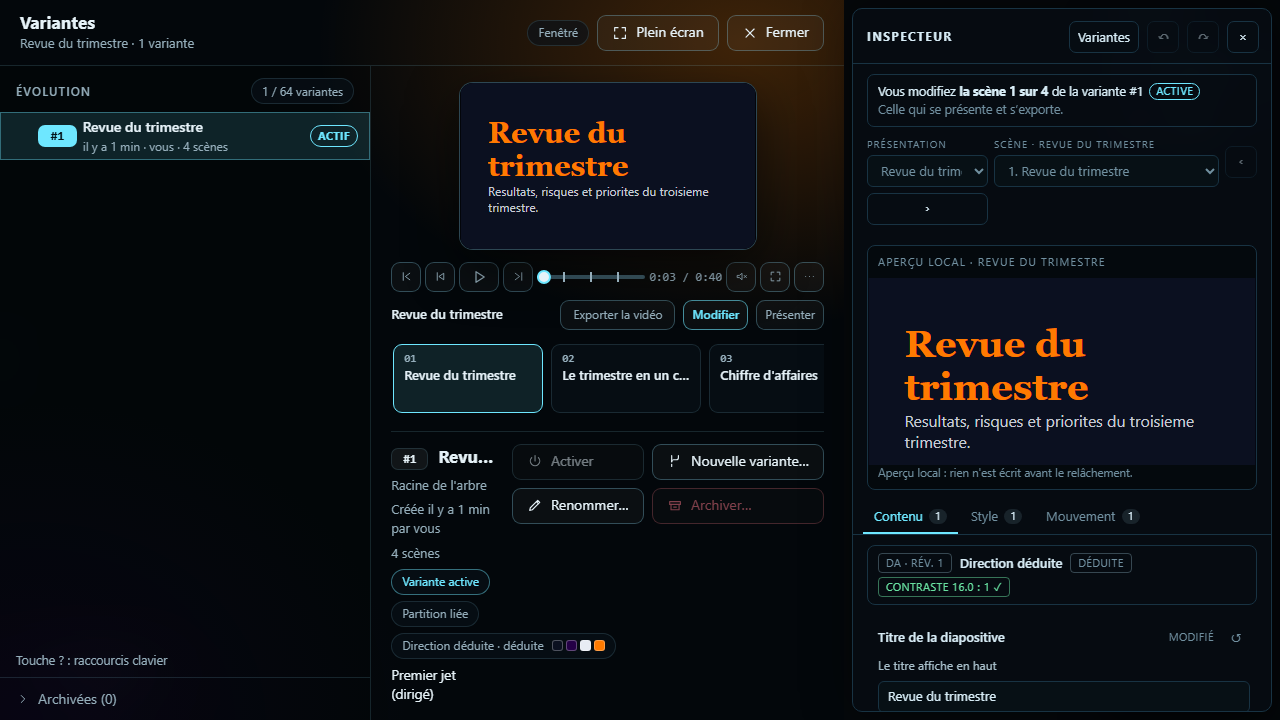
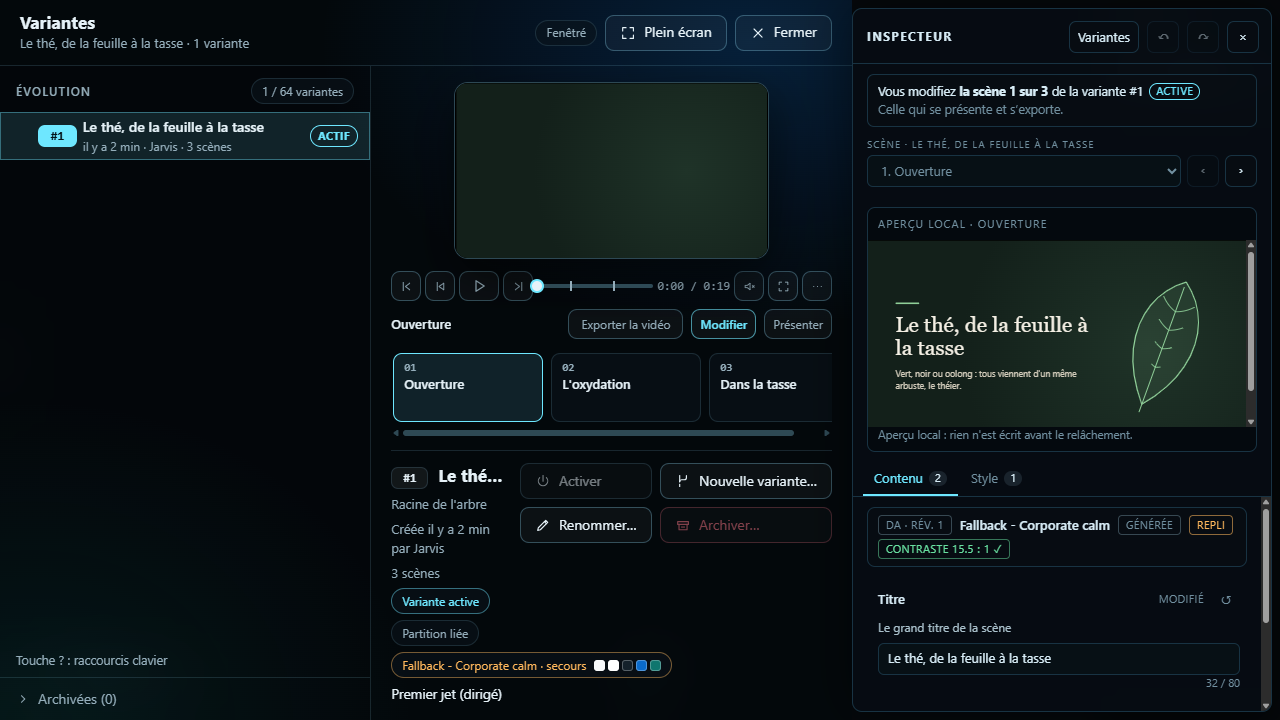
S9: reprise QA - image représentative tenue à l'arrêt, essai réel, captures et LOG
- Variantes : une scène choisie à l'arrêt montre son image représentative (le séquenceur tient le Player sur restFrame de l'hôte,
  l'horloge reste au début de la scène) ; l'option rest de l'hôte ne joue plus pendant une lecture (phases playing/waiting/loading).
- Variantes : « Core est injoignable » sans le texte de transport de Core.
- Essai réel en bac à sable : tour du cerveau (3 scènes, 0,94 $) dont chaque scène est modifiable, B1, Core arrêté, export d'une
  branche, image et PDF depuis Sessions & Boards ; captures refaites et ajoutées ; LOG de la reprise.

diff --git a/jarvis/runtime/control_center_presentation_studio_explorer.js b/jarvis/runtime/control_center_presentation_studio_explorer.js
@@ -57,6 +57,8 @@
     describeRefusal,planModel,sameSet,readPrefs,writePrefs,MAX_RATIONALE_BYTES,AUTO_DWELL_DEFAULT,AUTO_TICK_MS,AUTO_SKIP_MS,autoStep,leftKeyAction,nextDwell,dwellLabel}=Core;
 
   const GRAPH_POLL_MS=10000;
+  /* Sequencer phases in which a mounted scene is about to play from its start: no representative rest then (Slice 09). */
+  const RESTLESS=new Set(['playing','waiting','loading']);
   const EDIT_TITLE='Modifier la scène à l’écran (texte, couleurs, mouvement) : le panneau s’ouvre à droite, l’aperçu suit';
   const COMMAND_POLL_WAIT_S=25;
   const COMMAND_POLL_TIMEOUT_MS=30000;
@@ -651,7 +653,7 @@
            lecture continue écoute (Player devenu vivant, position du Player, échec d'une scène). */
         /* `autoplay: false`, `embed: 'variants'` (Slice 06): the Player opens paused on frame 0 and only the transport below plays it (§ 4.1);
            the stage page shows no bar of its own (§ 2). */
-        previewHost=api.createPrefabHost({mode:'preview',document:doc,window:win,swapPrefix:'presentation-studio.',autoplay:false,embed:'variants',rest:()=>!S.run&&!(seq&&seq.active()),
+        previewHost=api.createPrefabHost({mode:'preview',document:doc,window:win,swapPrefix:'presentation-studio.',autoplay:false,embed:'variants',rest:()=>!S.run&&!(seq&&RESTLESS.has(seq.view().phase)),
           fetchBundle:api.bundleFetcher((path,options)=>fetchImpl(path,Object.assign({cache:'no-store'},options))),
           onPreviewEvent:()=>{/* intentional: the preview frame writes nothing anywhere; its events are dropped */},
           onLive:(id)=>{if(runAdapter.owns(id))runAdapter.onLive(id);else if(seq)seq.onLive(id)},
@@ -679,6 +681,7 @@
         selectedIndex:()=>Math.max(0,S.preview.scenes.findIndex(s=>s.id===S.preview.sceneId)),
         fetchClock:()=>call('GET',variantPath(S.preview.variantId,'/composition-clock'),undefined,{timeoutMs:READ_TIMEOUT_MS}),
         show:(index)=>{const scene=S.preview.scenes[index];if(scene)showScene(scene.id)},
+        rest:()=>!S.run,
         variantChanged:()=>{say('info',"La variante a changé : l'aperçu est relu. Relancez la lecture.");schedulePreview()},
         changed:()=>renderPlayback()});
       return seq;

diff --git a/jarvis/runtime/control_center_prefab_host.js b/jarvis/runtime/control_center_prefab_host.js
@@ -537,6 +537,7 @@
         case 'ready':
           cancel(rec.readyTimer);
           if(status.composition)fitComposition(rec,status.composition);
+          if(status.composition)rec.composition=status.composition;
           rec.incarnation=++incarnations;
           rec.clock=null;rec.ordered=false;
           rec.ready=true;
@@ -1075,6 +1076,13 @@
       return rec&&rec.remotion&&rec.incarnation?rec.incarnation:null;
     }
 
+    /* The representative still of the live Player of `objectId` (its composition and the `rest_ms` it was mounted with), or `null` before its
+       first `ready`: the frame a paused scene shows when it is held at its start (Variants' sequencer, presentation-edition-v1 Slice 09). */
+    function restFrame(objectId){
+      const rec=frames.get(objectId);
+      return rec&&rec.remotion&&rec.composition?representativeFrame(rec.composition,rec.restMs):null;
+    }
+
     function clock(objectId){
       const rec=frames.get(objectId);
       return rec&&rec.remotion&&rec.clock?Object.assign({},rec.clock):null;
@@ -1112,7 +1120,7 @@
       for(const objectId of Array.from(frames.keys()))unmount(objectId);
     }
 
-    return Object.freeze({mount,preload,update,unmount,pause,resume,touch,reload,stats,destroy,control,cue,clock,frame,sound,
+    return Object.freeze({mount,preload,update,unmount,pause,resume,touch,reload,stats,destroy,control,cue,clock,restFrame,frame,sound,
       soundWanted:()=>soundMuted===null?null:!soundMuted,
       audio:(objectId)=>{const rec=frames.get(objectId);return rec&&rec.audio?Object.assign({},rec.audio):null},
       has:(objectId)=>frames.has(objectId),

diff --git a/jarvis/runtime/control_center_presentation_studio_explorer_core.js b/jarvis/runtime/control_center_presentation_studio_explorer_core.js
@@ -315,7 +315,8 @@
     if(code==='presentation_studio_limit_reached')return {kind:'refused',text:limitText(ctx&&ctx.op),code};
     if(REFUSALS[code])return Object.assign({code},REFUSALS[code]);
     if(code==='timeout')return {kind:'failed',code,text:`Core ne répond pas depuis ${Math.round((e.after||REQUEST_TIMEOUT_MS)/1000)} s : l'action a peut-être été prise en compte. Relisez la liste avant de recommencer.`};
-    if(code==='network'||e.status===503||e.status===504||e.status===502)return {kind:'failed',code:code||'unreachable',text:`Core est injoignable (${cleanLine(e.message||'réseau',100)}). Rien n'est affirmé : réessayez dans un instant.`};
+    /* The user's words only (Slice 09 QA): Core's transport text (« Core is unreachable: ClientConnectorError… ») stays in the journal. */
+    if(code==='network'||e.status===503||e.status===504||e.status===502)return {kind:'failed',code:code||'unreachable',text:'Core est injoignable. Rien n’est affirmé : réessayez dans un instant.'};
     if(e.status===403||code==='forbidden_origin')return {kind:'failed',code:code||'forbidden',text:"Le Control Center a refusé cette requête (origine non autorisée)."};
     const detail=cleanLine(e.message||'',200);
     return {kind:e.status>=500?'failed':'refused',code:code||`http_${e.status||'?'}`,

diff --git a/jarvis/runtime/control_center_presentation_studio_sequencer.js b/jarvis/runtime/control_center_presentation_studio_sequencer.js
@@ -236,9 +236,18 @@
       return ok;
     }
 
+    /* Held at the START of a scene (a scene chosen while nothing plays), the Player shows the scene's representative still, not its first frame,
+       which is blank for a scene that fades in (presentation-edition-v1 Slice 09, PM decision). The clock stays at the start: « Lire » plays
+       the scene from its beginning. Never during a run (`d.rest()` false) and never for a position inside the scene. */
     function hold(native){
       const h=host();
-      if(h)h.control(objectId,'pause',native);
+      if(!h)return;
+      let shown=native;
+      if(native===0&&typeof d.rest==='function'&&typeof h.restFrame==='function'){
+        try{if(d.rest()===true){const f=h.restFrame(objectId);if(Number.isInteger(f))shown=f}}
+        catch(error){log('sequencer_rest_failed',{error:describe(error)},'warn')}
+      }
+      h.control(objectId,'pause',shown);
     }
 
     /* The scene after `index`, loaded beside the live one, paused on frame 0. Only once `index` itself is the live Player. */

diff --git a/tests/unit/test_continuous_sequencing_js.py b/tests/unit/test_continuous_sequencing_js.py
@@ -203,7 +203,7 @@ function seqBench(opts){
     log:(k,d,l)=>logs.push([k,l||'info']),scenes:()=>SCENES,revision:()=>o.revision===undefined?3:o.revision,selectedIndex:()=>o.selected||0,
     fetchClock:async()=>{fetches.push(1);const a=answers[Math.min(fetches.length-1,answers.length-1)];if(a instanceof Error)throw a;return a},
     show:(i)=>{shows.push(i);const want=key(SCENES[i]);if(want===H.live)return;H.pending=want},
-    variantChanged:()=>{changedVariant++},changed:(v)=>views.push(v.phase)});
+    variantChanged:()=>{changedVariant++},changed:(v)=>views.push(v.phase),rest:o.rest});
   H.live=key(SCENES[o.selected||0]);
   const advance=(ms)=>{t+=ms;for(const x of timers.slice()){if(x.fn&&x.at<=t){const fn=x.fn;x.fn=null;fn()}}};
   /* The host swaps the frames: the pending scene is live, its Player sits paused on frame 0. */
@@ -376,6 +376,27 @@ async def test_choosing_a_scene_goes_to_its_start_and_keeps_the_play_state(tmp_p
     """)
     assert result["playing"] == ["waiting", 990] and result["paused"] == ["paused", 0]
     assert result["orders"] == [["s1@1", "play", 0], ["s3@1", "play", 0], ["s3@1", "pause", None], ["s1@1", "pause", 0]]
+
+
+async def test_a_scene_held_at_its_start_shows_its_representative_still_but_plays_from_its_start(tmp_path):
+    """presentation-edition-v1 Slice 09 (PM decision): a scene chosen while nothing plays shows its representative still (the host's
+    `restFrame`, not its blank first frame); the clock stays at the scene's start and « Lire » plays it from frame 0. Never during a run."""
+
+    result = run_seq(tmp_path, r"""
+      const b=seqBench({rest:()=>true});
+      b.H.restFrame=()=>45;
+      await b.seq.play();b.report(5,true);b.seq.pause();
+      b.seq.seekScene(2);b.swap();
+      const held={phase:b.seq.view().phase,frame:b.seq.view().frame,last:b.orders.slice(-1)[0]};
+      await b.seq.play();
+      const played=b.orders.slice(-1)[0];
+      const r=seqBench({rest:()=>false});r.H.restFrame=()=>45;
+      await r.seq.play();r.report(5,true);r.seq.pause();r.seq.seekScene(2);r.swap();
+      return {held,played,run:r.orders.slice(-1)[0]};
+    """)
+    assert result["held"] == {"phase": "paused", "frame": 990, "last": ["s3@1", "pause", 45]}, "the still is shown, the clock stays at the start"
+    assert result["played"] == ["s3@1", "play", 0], "« Lire » plays the scene from its beginning"
+    assert result["run"] == ["s3@1", "pause", 0], "no rest when the page says so (a run)"
 
 
 async def test_the_real_host_and_the_sequencer_hand_over_without_a_hybrid_frame(tmp_path):

diff --git a/tasks/jarvis-presentation-edition-v1/LOG.md b/tasks/jarvis-presentation-edition-v1/LOG.md
@@ -216,3 +216,17 @@ Implementation agents append durable execution notes here. This handoff intentio
 - Runtime réel (même bac à sable, code de la Slice) : « Modifier » → éditeur ancré, titre de la scène 3 changé puis « Annuler » depuis la scène 1 → les deux reviennent sur la scène 3 et la valeur d'avant ; nouveau deck assemblé (« Premier jet (dirigé) », « Direction déduite ») ; « Exporter la vidéo » réel (1 200 images, 427 Kio, 162 s), PNG et PDF d'une scène rendus, puis « Enregistrer une copie dans Documents » cliqué sur les trois : `JARVIS_EXPORT_ROOT\Revue du trimestre - vidéo.mp4`, `- image.png`, `- PDF.pdf`. Aucun tour du cerveau (0 $). Arrêt par PID exacts (Core 22728, Control Center 26272 et leurs descendants nés après le démarrage) ; bases copiées sous `C:\Users\Clarice\AppData\Local\Temp\claude\C--Projects-jarvis-jarvis\448345f0-a514-4023-9dde-33aed523cf61\scratchpad\s09\db-copies\` puis `%TEMP%\s09run-a` et `%TEMP%\s09src` supprimés. Le JARVIS vivant n'a été ni lancé ni touché.
 - Captures (`slices/09-presentation-editing-ui/screenshots/`, 2,2 Mo) : avant (Variantes 1440×900 et 1280×720, « Éditer » sans éditeur visible aux trois tailles), après (Variantes, éditeur ancré aux trois tailles, export vidéo terminé, copie dans Documents, annuler sur une autre scène — cette dernière prise avant le raccourcissement de la ligne de contexte). HV-EDIT-02..05 ajoutés à `human-validation.json`.
 - Reste à éprouver / points ouverts : (a) **remplacement d'un visuel** non livré — l'éditeur n'offre qu'un champ texte pour un contrôle `url` ; un choix d'image bornée aux assets internes (jamais un chemin) demande un contrat d'assets de Core (hors passe UI) ; (b) une scène Remotion à l'arrêt montre sa première image : une scène qui apparaît en fondu paraît vide tant qu'elle ne joue pas, dans Variantes ET dans le PNG/PDF exporté d'une scène (image 0) — décision d'horloge / de rendu (image représentative) à prendre ; (c) l'anneau d'annulation reste en mémoire (perdu au redémarrage de Core, dit par l'infobulle) ; (d) brouillon d'un champ texte abandonné si Variantes change de variante pendant la saisie (règle existante `abandonDrafts`) ; (e) à 600×800 l'éditeur recouvre Variantes (son aperçu local montre la scène) ; (f) QA runtime à faire sur un deck écrit par le vrai cerveau et sur HV-EDIT-01 (texte, visuel, variante, annuler, aperçu, export).
+
+## 2026-10-26 — Slice 09, reprise QA (agent d'implémentation)
+- Base `e31d5cec` ; QA code (`slices/09-…/qa/code-review.md`) et QA runtime (preuves au scratchpad de la session, `s09qa/evidence/`). Commits `448c055c` (correctifs, tests, docs, I-008), puis un second commit (image représentative tenue par le séquenceur, message « Core est injoignable » sans texte de transport, captures, ce LOG).
+- **B1** (saisie perdue quand Variantes change de scène) : tout déplacement de l'éditeur (scène ou variante dite par Variantes, lecture continue comprise, sélecteur, ‹ ›, autre présentation) passe par une file (`requestMove`) : la saisie est d'abord enregistrée sur SA scène et la file d'écritures attendue (`settleDrafts`), puis l'éditeur suit, le dit (« Saisie enregistrée sur la scène 1 « … » · l'éditeur montre maintenant la scène 2 « … » ») et sort le curseur du champ (titre). Échec (refus, Core injoignable) : l'éditeur reste sur sa scène et le dit, avec « Abandonner ma saisie et continuer » ; il repart seul une fois la saisie enregistrée ou abandonnée. Fermer l'éditeur enregistre d'abord de même. Une simple sauvegarde ne ramène plus Variantes (`bring` réservé à annuler / rétablir) : c'est ce qui renvoyait Variantes sur la scène 1 pendant la lecture.
+- **Core arrêté** : la saisie reste dans le champ et le brouillon, message produit (« Jarvis ne joint pas son moteur (Core) : votre saisie est gardée… », « Réessayer »), enregistrée dès la réponse suivante de Core (relève de 3 s), message effacé. Variantes ne cite plus le texte de transport (« Core est injoignable. Rien n'est affirmé… »).
+- **Deck du vrai cerveau** : rédaction native = une scène expose au moins un contrôle de contenu (`NATIVE_REQUIRED`, `scene_no_controls` en erreur en natif ; une couleur seule ne suffit pas) ; `NATIVE_LOOP`, le guide natif (exemple avec `NATIVE_PROPS` / `NATIVE_CONTROLS`) et le playbook de l'auteur le disent ; `tsx_props_unread` passe en avertissement. Vaut pour `full` et `presentation` (même éditeur, même défaut) ; consignes confinées inchangées (parité testée), budget du playbook porté à 7 400 caractères.
+- **Export d'une variante « Nouvelle variante… »** : la copie figée vide la lignée (`sources`) de son entrée d'index (cause du refus `source psv_… is not a variant`) ; `presentation_render_snapshot_invalid` dit en français, motif de Core en petit.
+- **Image représentative** (décision du PM) : image/PDF sans image nommée = fin de l'entrée (première ancre datée), sinon milieu de la scène ; même règle dans la page (`representativeFrame`, test de parité) : aperçu de Variantes au premier montage et scène choisie à l'arrêt (le séquenceur tient l'image, l'horloge reste au début : « Lire » part du début) ; jamais en lecture ni en présentation. Contrat : `docs/remotion-render.md` › *Image représentative*, `docs/presentation-studio.md`.
+- **Image/PDF depuis Sessions & Boards** : choix de la scène (`master.stills` de la lecture de la vidéo entière, la première par défaut, aucune question pour une copie d'une scène) ; un PDF est d'UNE scène (contrat `RENDERS` inchangé, documenté). Bouton de copie gardé après une copie ; un export fini dans Variantes fait relire les rendus du Board (`jarvis:presentation-render-finished`).
+- **Clavier / lecteur d'écran** : focus rendu à « Modifier » (Échap, ×), gardé sur « Annuler » (ou le titre) après un annuler par Entrée, plus d'`aria-haspopup`, ligne de contexte réécrite seulement si ses mots changent ; confirmation d'enregistrement visible (4 s) ; « Annuler » nomme sa scène sous la barre ; annuler attend la file d'écritures (m3, et garde de scène sur chaque écriture). Éditeur à droite à toutes les largeurs (`left:auto`), Variantes s'arrête au bord de l'éditeur (`right:428px`, plus de fragments x≈985) ; en édition produit la scène qui ne joue pas dit la phrase produit, sans route, détail anglais ni code. « Modifier » reste permis quand la scène ne joue pas (ses valeurs sont celles de Core) : la doc le dit.
+- **Tests** (`.venv` du dépôt principal, avant-plan, par lots) : nouveaux `test_presentation_editing_drafts_js.py` 5, `test_variants_reads_core_after_edit_js.py` 1 (relecture immédiate + « Relire » ; mutation « sans relecture » tuée), `test_representative_still_js.py` 1 ; navigateur `test_presentation_editing_ui_browser.py` 6 (B1 reproduit, relève de Variantes neutralisée et lectures du graphe comptées : mutation tuée, S2/S3 identiques, édition `full`) ; ajouts : export d'une branche, image/PDF représentatifs, `stills`, choix de scène et bouton gardé, message I-006, refus natif sans contrôle, contrôle mort, image tenue par le séquenceur. Lots : `test_presentation_studio_*` hors navigateur 3 683 passés (4 lots) ; rédaction/consignes/confinement 617 + 176 ; rendu/gel/artefacts/MCP 381 ; JS explorateur/inspecteur/Variantes/espace de travail/hôte 231 + 335 + 124 + 22 ; docs 485 ; navigateur inspecteur + explorateur 34, espace de travail/édition/rail/contrôles 47 (+2 ignorés), rail e2e/transport/Remotion Studio/comparaison 13 (+6), puis édition/transport/rail e2e 9 (+5) et explorateur/contrôles 26 (+2) après le second lot de correctifs. Un échec intermittent vu une fois (`test_presentation_studio_explorer_browser.py::…three_sizes…[800x600]` : bruit `reloads_failed` à l'arrêt du banc), vert en relance.
+- **Essai réel** (archive de `448c055c` + les fichiers du second commit copiés à chaud, `JARVIS_PRODUCT_EDITION=presentation`, ports 39653-39656, données `%TEMP%\s09rw-a`, export `%TEMP%\s09rw-export`, Chrome sans tête CDP 9481) : Remotion installé depuis la page AVANT le tour ; **un tour réel du cerveau** (« présentation très courte de 3 scènes sur « Le thé, de la feuille à la tasse », sans recherche web ») → un `[presentation-author]`, deck natif de 3 scènes livré, **chaque scène expose ses textes et sa couleur** (titre, ligne, accent ; la scène 2 aussi ses trois libellés), coût total **0,94 $** ; « Modifier » ouvre l'éditeur avec ces réglages (plus de « n'expose aucun réglage ») ; B1 réel : titre tapé sans relâcher, ▶ dans Variantes, au passage à la scène 2 le titre est enregistré sur la scène 1 (Core), la scène 2 intacte, statut dit, curseur sur le titre ; Core arrêté (PID exact) : saisie gardée, message produit, Core relancé → enregistrée seule, message effacé ; « Nouvelle variante… » puis « Exporter la vidéo » de la branche non active → vidéo entière exportée (570 images, 793 Kio) ; Sessions & Boards : image de la scène 1 (choix de scène offert, PNG 1920×1080 avec contenu, titre édité visible) et PDF de la scène 2 (page avec contenu), copie dans `JARVIS_EXPORT_ROOT\Le thé, de la feuille à la tasse - PDF.pdf`, bouton toujours là ; Variantes à l'arrêt montre l'image représentative (scène 1 au montage, scène 2 choisie). Preuves : scratchpad de la session `s09rw/evidence/` (captures `r0*.png`, `r1*.png`, plans `r*.json`, `brain-transcript.json`, `brain-variant.json`, image et PDF exportés) ; captures recopiées sous `slices/09-…/screenshots/` (`after-edit-docked-*` refaites, `after-draft-saved-when-variants-plays`, `after-core-stopped-kept`, `after-core-back-saved`, `after-variants-rest-representative`, `after-artifacts-image-scene-choice`, `after-branch-exported`). Arrêt par PID exacts (Core 30236 puis 5296, Control Center 28696, Chrome 11744, et leurs descendants nés après leur démarrage) ; bases copiées sous `s09rw/db-copies/` puis `%TEMP%\s09rw-*` supprimés. Le JARVIS vivant (17653) et les ports 42653-42656 n'ont pas été touchés.
+- Aucune migration de schéma SQLite. Rien à redémarrer pour le JARVIS vivant au-delà du prochain chargement de page (JS) et du prochain démarrage de Core (gel, rendu, porte de rédaction).
+- Reportés dans `Issues/I-008-s09-leftovers.md` : remplacement d'un visuel après V1 (contrat d'assets de Core ; HV-EDIT-01 reformulé, limite écrite au contrat V1), anneau d'annulation en mémoire, jargon restant, `remotion_setup` refusé quand le cerveau délègue (I-005), démarrage réel de Remotion Studio en `full` non éprouvé.

diff --git a/docs/remotion-render.md b/docs/remotion-render.md
@@ -44,8 +44,9 @@ Clés **fermées** (`settings`), types stricts ; une clé qui ne s'applique pas 
 montre l'instant où l'entrée de la scène est terminée, que la scène déclare par sa **première ancre datée** (`at_ms`, le moment où son
 contenu est révélé) ; une scène qui n'en déclare pas donne son **image du milieu** (`duration_in_frames // 2`) ; borné à la scène, arrondi
 au plus proche (moitié vers le haut). L'image 0 n'est plus le défaut : une scène qui apparaît en fondu y est vide. La même règle fait
-reposer l'aperçu de Variantes à l'arrêt (`control_center_prefab_host.js` › `representativeFrame`, option `rest` de l'hôte ; jamais pendant
-une lecture ni une présentation) ; `presentation_render_plan.representative_frame`, test de parité `tests/unit/test_representative_still_js.py`.
+reposer l'aperçu de Variantes à l'arrêt (`control_center_prefab_host.js` › `representativeFrame` / `restFrame`, option `rest` de l'hôte, et
+le séquenceur qui tient une scène choisie à l'arrêt sur cette image, son horloge restant au début de la scène ; jamais pendant une lecture
+ni une présentation) ; `presentation_render_plan.representative_frame`, test de parité `tests/unit/test_representative_still_js.py`.
 Un `frame` / `frames` nommé est rendu tel quel (identité de rendu inchangée). **Une image ou un PDF est d'UNE scène** : le PDF d'un deck
 entier n'est pas livré (la vidéo entière est la seule portée de variante, MP4) ; une page qui offre l'export d'une image ou d'un PDF fait
 choisir la scène (Sessions & Boards › Artefacts : liste `stills` de la lecture ci-dessous, la première par défaut, aucune question pour une

diff --git a/docs/presentation-studio.md b/docs/presentation-studio.md
@@ -2773,8 +2773,9 @@ edited_event_failed`, `history_applied {scenes, moved}`.
 
 **Representative still** (PM decision, Slice 09 QA). A paused scene in Variants rests on its representative frame, and an image or PDF
 of a scene without a named frame is that frame: the end of its entrance, which the scene declares with its first timed anchor (`at_ms`),
-else the middle of the scene ([remotion-render.md](remotion-render.md) › *Image représentative*). Never during a play or a presentation run
-(scenes start at 0 there). An image or a PDF is of ONE scene: Sessions & Boards › Artefacts asks which one (the first by default) and
+else the middle of the scene ([remotion-render.md](remotion-render.md) › *Image représentative*): at the first mount of a scene (host option
+`rest`), and when a scene is chosen while nothing plays (the sequencer holds the Player on the host's `restFrame` while its clock stays at
+the scene's start, so « Lire » plays the scene from its beginning). Never during a play or a presentation run (scenes start at 0 there). An image or a PDF is of ONE scene: Sessions & Boards › Artefacts asks which one (the first by default) and
 says nothing for a copy of one scene.
 
 **Known limits of V1.**
